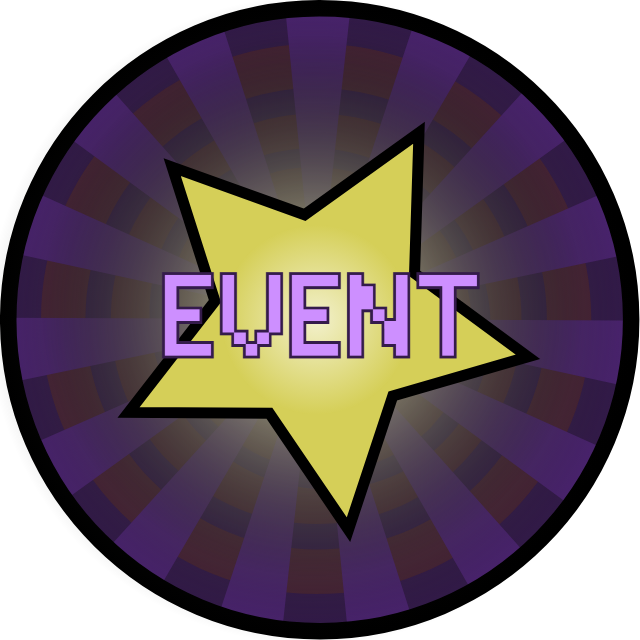
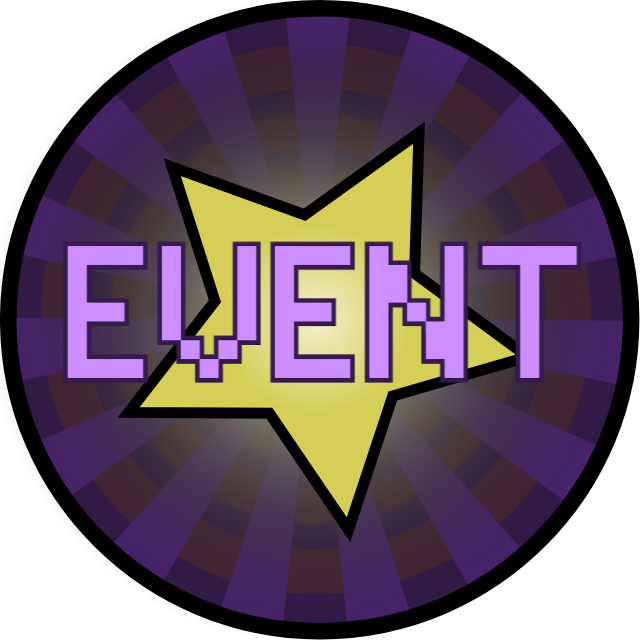
overhaul the mod give badges from the mod menu, and create new YT badge. make adding new badges to the give badges list easier.

Changed region(s): [[0.0938, 0.375, 0.9062, 0.625]]

diff --git a/packages/junon-matchmaker/src/index.js b/packages/junon-matchmaker/src/index.js
@@ -35,6 +35,7 @@ const LOG = require('junon-common/logger')
 const queryString = require('querystring')
 const util = require('util')
 const User = require("junon-common/db/user")
+const ModeratorGiveableBadges = require("junon-common/moderator_giveable_badges")
 const SectorModel = require("junon-common/db/sector")
 const Favorite = require("junon-common/db/favorite")
 const IpBan = require("junon-common/db/ip_ban")
@@ -360,7 +361,8 @@ class MatchmakerServer {
     let modIds = [
       "5t1H4HSXgGRzCw0isgiwxBf2cXn2", 
       "jEleFj7LAVhfv8FwLEKejEj6ESx2",
-      "UBdPAUeJBfZfUycLhl3508aAgVH2"
+      "UBdPAUeJBfZfUycLhl3508aAgVH2",
+      "x2QYp2Ei6TZdynUxXXUVzsKlhKl1"
     ]
 
     if (modIds.indexOf(uid) !== -1) {
@@ -610,8 +612,14 @@ class MatchmakerServer {
           }
 
           if(!body.username) {
-            let data = { error: "Missing username of event winner."}
+            let data = { error: "Missing username."}
             res.end(JSON.stringify(data))
+            return
+          }
+
+          let badge = ModeratorGiveableBadges.find((entry) => entry.id === body.badgeId)
+          if (!badge) {
+            res.end(JSON.stringify({error: "Invalid badge."}))
             return
           }
 
@@ -625,20 +633,17 @@ class MatchmakerServer {
             return;
           }
 
-          if(!user.badges) {
-            user.badges = "ev"
-            res.end(JSON.stringify({success: body.username + " was given event badge."}))
-            return
-          }
-          if(user.badges.split(',').indexOf("ev") != -1) {
-            res.end(JSON.stringify({success: body.username + " already has the event badge"}))
+          let userBadges = user.badges ? user.badges.split(',').filter(Boolean) : []
+          if(userBadges.indexOf(badge.id) !== -1) {
+            res.end(JSON.stringify({success: body.username + " already has the " + badge.name + " badge."}))
             return
           }
 
-          user.badges += ",ev"
-          user.save();
+          userBadges.push(badge.id)
+          user.badges = userBadges.join(',')
+          await user.save()
 
-          res.end(JSON.stringify({success: body.username + " was given the event badge."}))
+          res.end(JSON.stringify({success: body.username + " was given the " + badge.name + " badge."}))
         }
         catch(e) {
           ExceptionReporter.captureException(e)

diff --git a/packages/junon-io/client/src/components/event_badge_manager.js b/packages/junon-io/client/src/components/event_badge_manager.js
@@ -1,11 +1,30 @@
 const ClientHelper = require("../util/client_helper")
 const Config = require('junon-common/config')
+const ModeratorGiveableBadges = require('junon-common/moderator_giveable_badges')
 class EventBadgeManager {
     constructor(main) {
         this.main = main
         this.game = main.game
         this.menuEl = document.querySelector("#event_manager_container")
+        this.badgeSelect = this.menuEl.querySelector("#badge_select")
+        this.populateBadgeOptions()
         this.initListeners()
+    }
+
+    populateBadgeOptions() {
+        const placeholder = document.createElement("option")
+        placeholder.value = ""
+        placeholder.textContent = "Select a badge"
+        placeholder.disabled = true
+        placeholder.selected = true
+        this.badgeSelect.appendChild(placeholder)
+
+        for (const badge of ModeratorGiveableBadges) {
+            const option = document.createElement("option")
+            option.value = badge.id
+            option.textContent = badge.name
+            this.badgeSelect.appendChild(option)
+        }
     }
 
     initListeners() {
@@ -16,12 +35,24 @@ class EventBadgeManager {
     async onSubmitBtnClicked() {
         const url = Config[env].matchmakerUrl + "give_badge"
         const username = this.menuEl.querySelector("#badge_username_field").value
-        if(!username) return
+        const badgeId = this.badgeSelect.value
+        const badge = ModeratorGiveableBadges.find((entry) => entry.id === badgeId)
+        const info = this.menuEl.querySelector("#event_badge_menu_info")
+        if(!username) {
+            info.innerText = "Enter a username."
+            return
+        }
+        if(!badge) {
+            info.innerText = "Select a badge."
+            return
+        }
+        info.innerText = ""
         const idToken = await this.main.getFirebaseIdToken()
 
         const data = {
             idToken: idToken,
-            username: username
+            username: username,
+            badgeId: badgeId
         }
 
         ClientHelper.httpPost(url, data, {

diff --git a/packages/junon-io/test/common/moderator_giveable_badges.test.js b/packages/junon-io/test/common/moderator_giveable_badges.test.js
@@ -1,0 +1,16 @@
+const Badges = require('../../server/entities/badges')
+const ModeratorGiveableBadges = require('junon-common/moderator_giveable_badges')
+
+test('moderator-giveable badge entries are registered badges', () => {
+  const registeredIds = Object.values(Badges.badges).map((Badge) => new Badge().getId())
+
+  for (const badge of ModeratorGiveableBadges) {
+    expect(registeredIds).toContain(badge.id)
+  }
+})
+
+test('the YouTube badge is not automatically qualified', () => {
+  const Youtube = Badges.badges.Youtube
+
+  expect(new Youtube().isQualified({})).toBe(false)
+})

diff --git a/packages/junon-io/server/entities/badges/yt.js b/packages/junon-io/server/entities/badges/yt.js
@@ -1,0 +1,29 @@
+const BaseBadge = require('./base_badge')
+
+class Youtube extends BaseBadge {
+    getId() {
+        return 'yt'
+    }
+    getName() {
+        return 'Youtube'
+    }
+
+    async isQualified(player) {
+        return false
+    }
+
+    getImageUrl() {
+        return 'badges/yt.png'
+    }
+
+    getDescription() {
+        return 'Given by a moderator to recognize YouTube creators.'
+    }
+
+    getColor() {
+        //pure red
+        return 'ff0000'
+    }
+}
+
+module.exports = Youtube

diff --git a/packages/junon-io/server/entities/badges/index.js b/packages/junon-io/server/entities/badges/index.js
@@ -4,6 +4,7 @@ Badges.None = require('./none')
 Badges.OG = require('./og')
 Badges.Scrooge = require('./scrooge')
 Badges.Event = require('./event')
+Badges.Youtube = require('./yt')
 
 let idToName = new Map()
 for(let i in Badges) {

diff --git a/packages/junon-common/moderator_giveable_badges.js b/packages/junon-common/moderator_giveable_badges.js
@@ -1,0 +1,4 @@
+module.exports = [
+  {id: 'ev', name: 'Event'},
+  {id: 'yt', name: 'Youtube'}
+]
